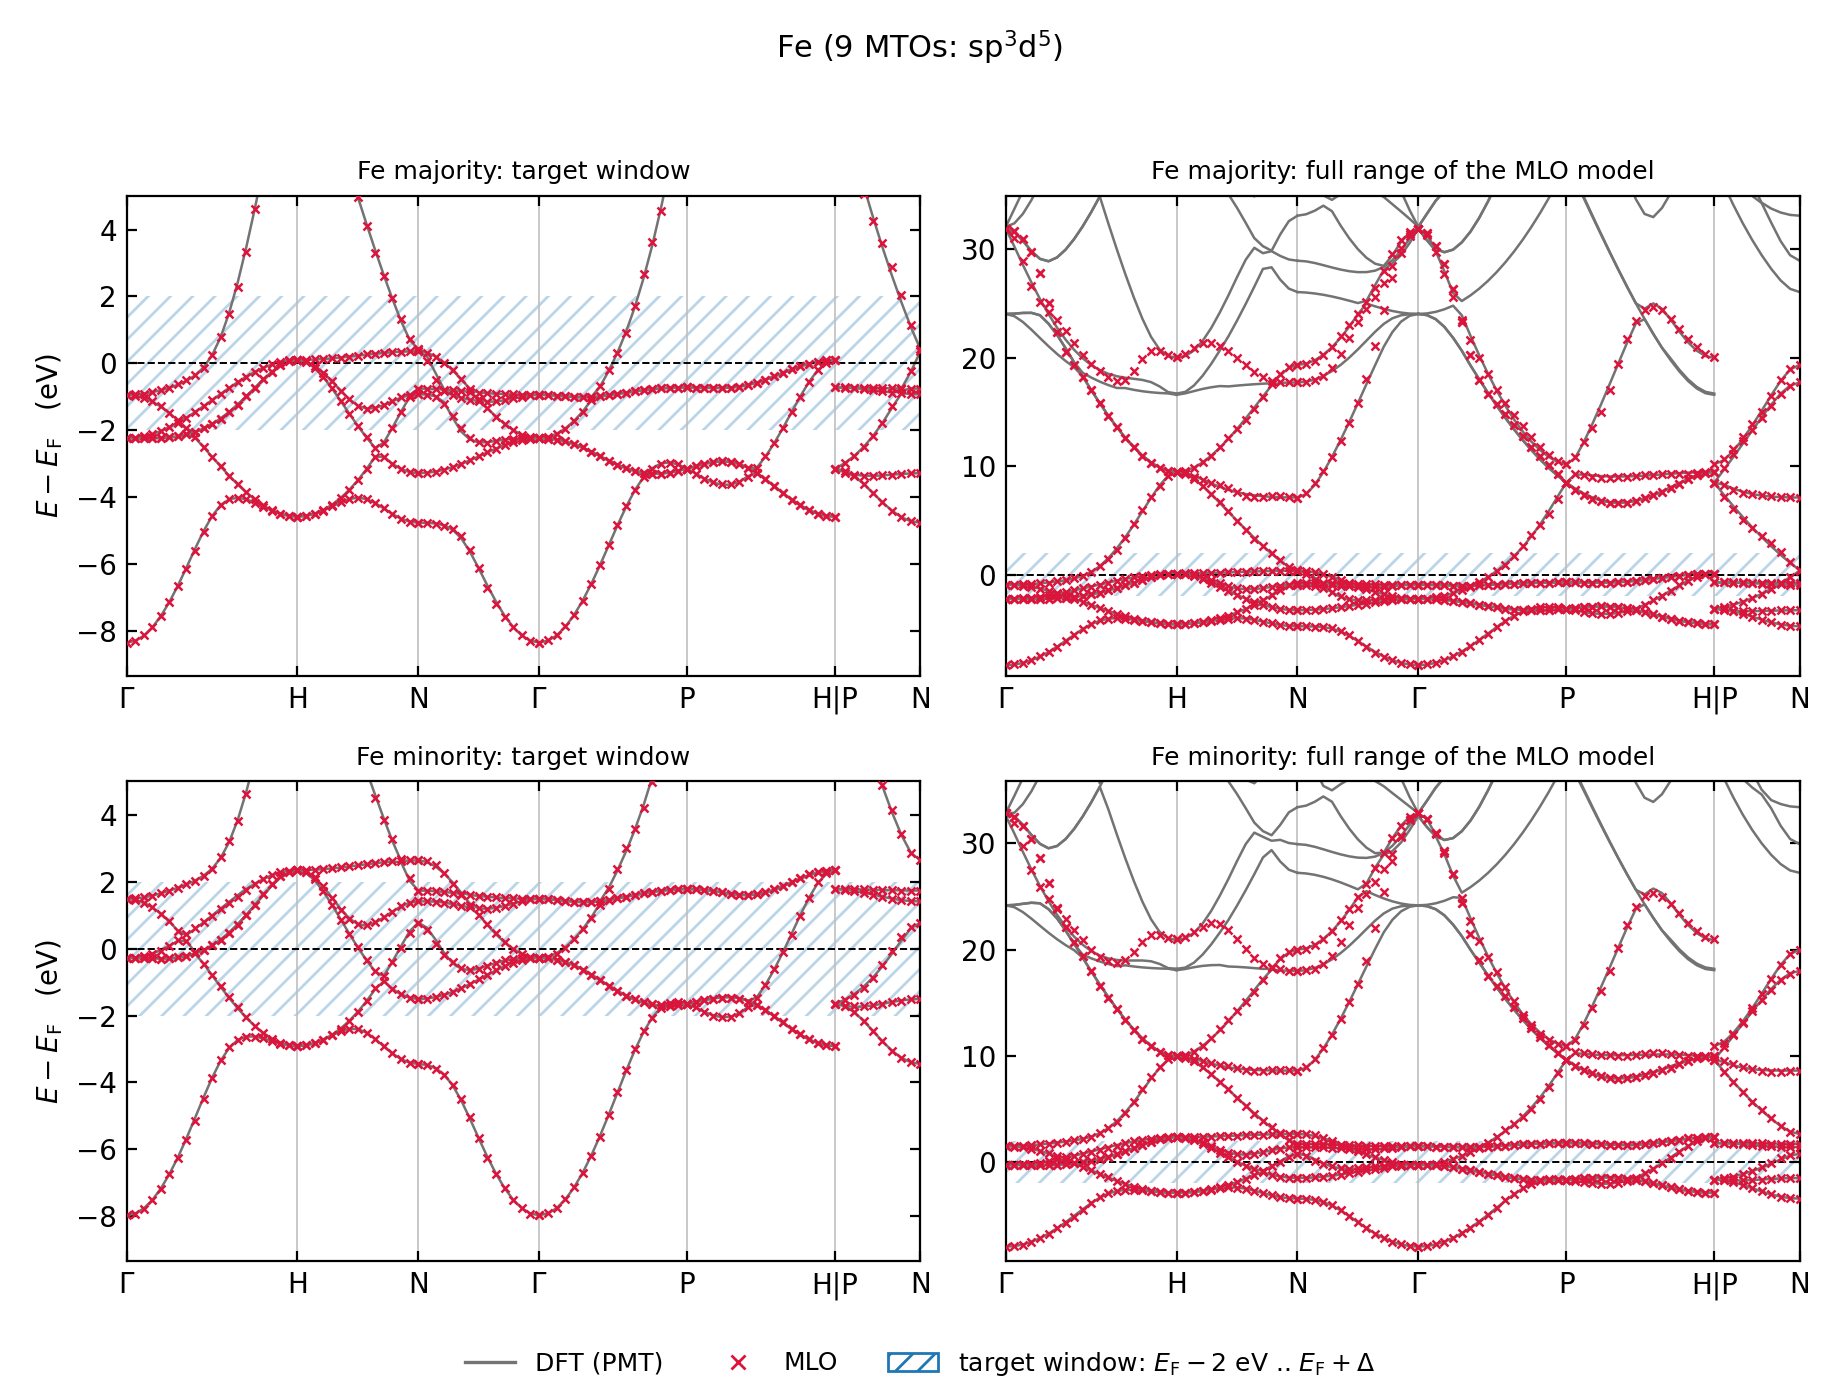
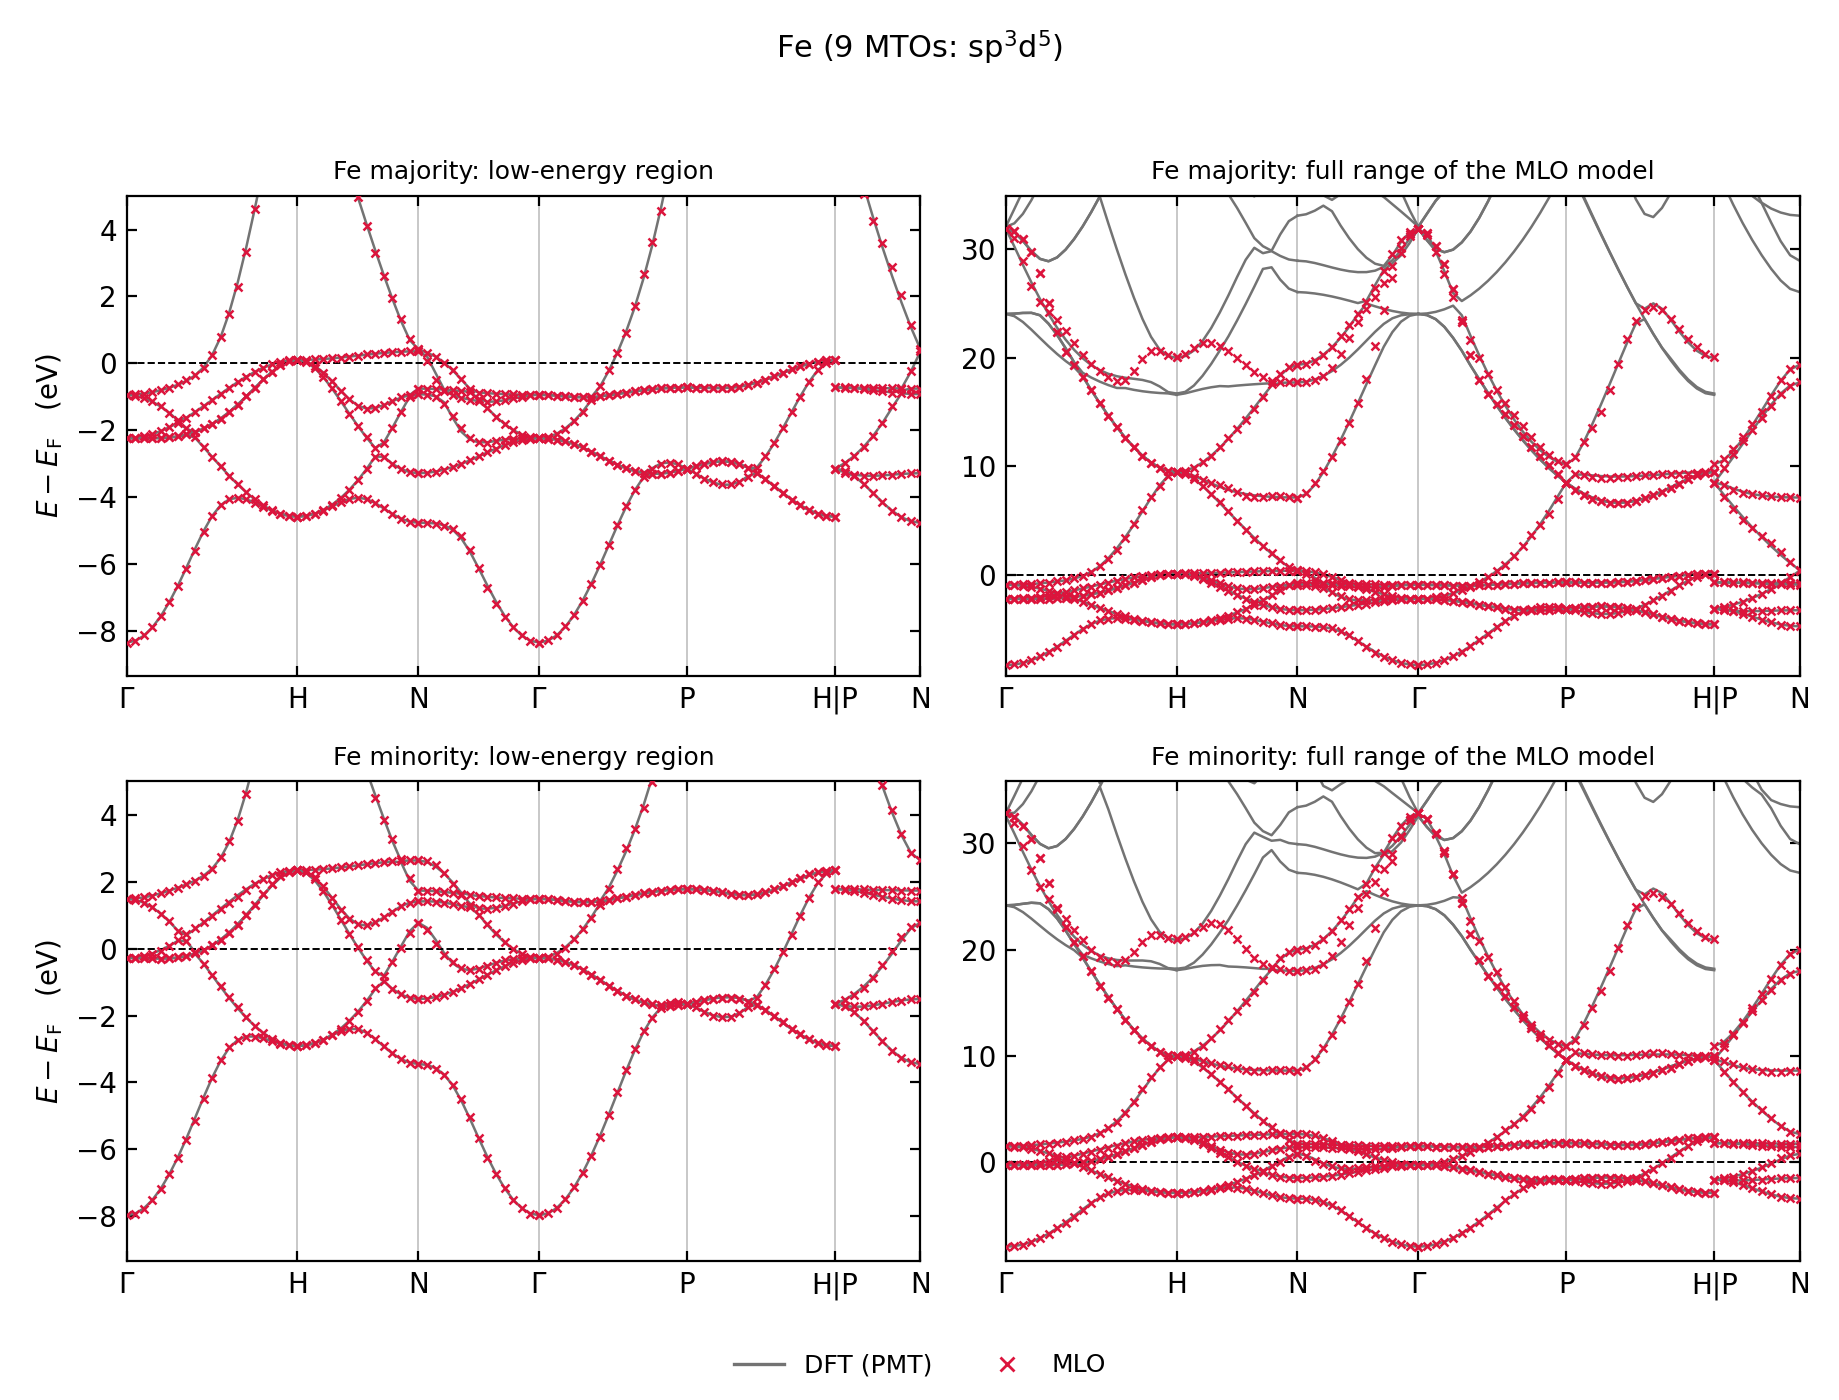
MLO: drop the target-window hatching from the publication figures
Delta fixes only the upper floor of ecut_j = max(eps_CBM + Delta, eps^MTO_j);
the lower limit is a convenience of the evaluation. And since the second
argument eps^MTO_j differs per orbital, it cannot be drawn as one horizontal
line. Drawing it as a band is misleading, so it is removed and the reason is
stated in the text. The left panel heading also goes from "target window" to
"low-energy region".

diff --git a/MLO_minimal.md b/MLO_minimal.md
@@ -136,9 +136,13 @@ $w$ を最適化すれば 14.9 / 8.5 meV まで下がる(§3)。
 
 ![Si](MLO_minimal_figs/pub_Si.png)
 
-Si(19 MTO = 2 原子 × sp³d⁵)。左が目的窓、右が MLO 模型が伸びきる全域。
-斜線が目的窓($\mathrm{VBM}-2$ eV 〜 $\mathrm{CBM}+\Delta$)。
-窓の中は赤 × が灰線に完全に乗り、窓の外でも 28 eV まで滑らかに続く。
+Si(19 MTO = 2 原子 × sp³d⁵)。左が低エネルギー領域、右が MLO 模型が伸びきる全域。
+価電子帯から伝導帯 +5 eV まで赤 × が灰線に完全に乗り、その上も 28 eV まで滑らかに続く。
+
+図に「目的窓」の帯は描いていない。$\Delta$ が決めるのは
+$e^{\rm cut}_{n''}=\max(\varepsilon_{\rm CBM}+\Delta,\ \varepsilon^{\rm MTO}_{n''})$ の
+**上側の床だけ**で、下限は評価の都合にすぎない。しかも第 2 引数の
+$\varepsilon^{\rm MTO}_{n''}$ が軌道ごとに違うので、**一本の水平線では描けない**。
 
 ![Fe](MLO_minimal_figs/pub_Fe.png)
 
@@ -151,8 +155,7 @@ Fe(9 MTO = sp³d⁵)。majority と minority を並べた。**両スピンとも
 
 FeCo も同様(majority 8.3 / minority 4.6 meV)、NiO は両スピン同値。
 **磁性系でスピンによる偏りは出ていない。**
-金属なので目的窓は $E_F-2$ eV 〜 $E_F+\Delta$。$E_F$ を横切る sp バンドは
-ゾーン境界の 32 eV まで追えている。
+$E_F$ を横切る sp バンドはゾーン境界の 32 eV まで追えている。
 
 ### 高エネルギー側 — トランケーションは滑らか
 
